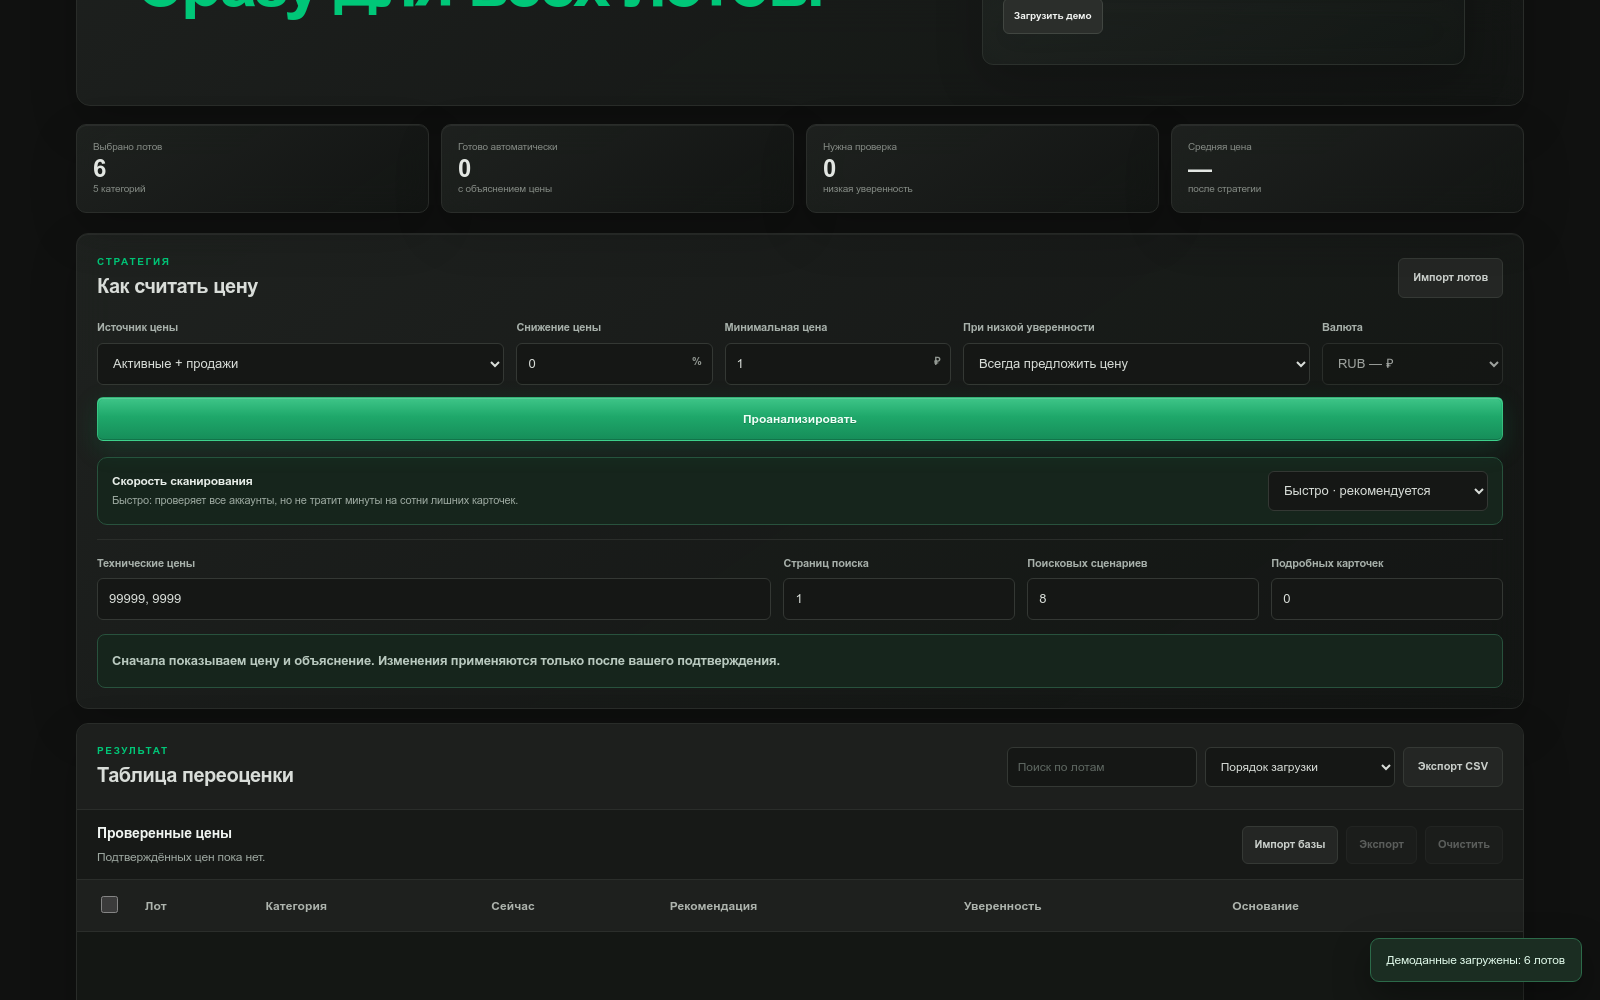
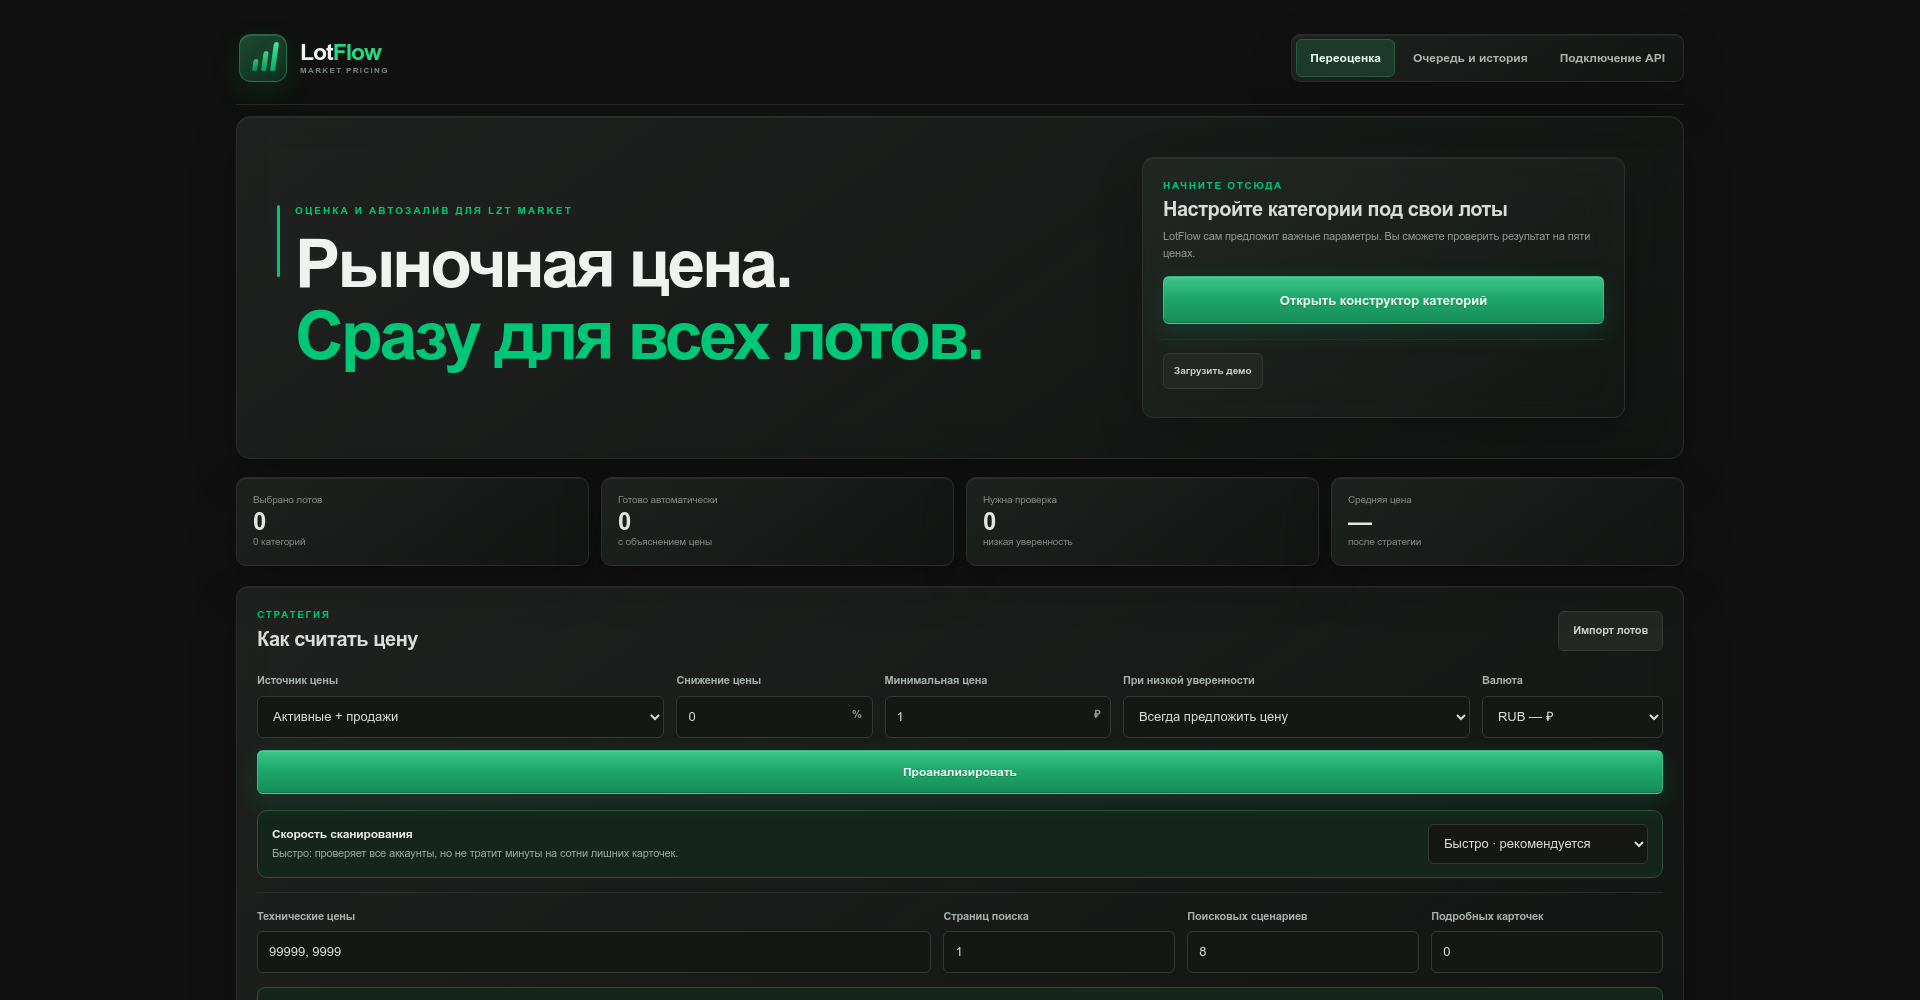
Add files via upload

diff --git a/README.md b/README.md
@@ -1,5 +1,11 @@
 # LotFlow 1.0
 
+![Версия](https://img.shields.io/badge/version-1.0-19c37d?style=for-the-badge)
+![Тесты](https://img.shields.io/badge/tests-175%20passed-19c37d?style=for-the-badge&logo=githubactions&logoColor=white)
+![Node.js](https://img.shields.io/badge/Node.js-20%2B-339933?style=for-the-badge&logo=nodedotjs&logoColor=white)
+![Лицензия](https://img.shields.io/badge/license-MIT-168c5c?style=for-the-badge)
+![LZT Market](https://img.shields.io/badge/LZT-Market%20pricing-111713?style=for-the-badge)
+
 LotFlow помогает продавцам LZT Market оценивать лоты по рыночным аналогам, проверять рекомендации и массово применять подтверждённые цены.
 
 ![Главный экран LotFlow](docs/screenshots/01-overview.png)